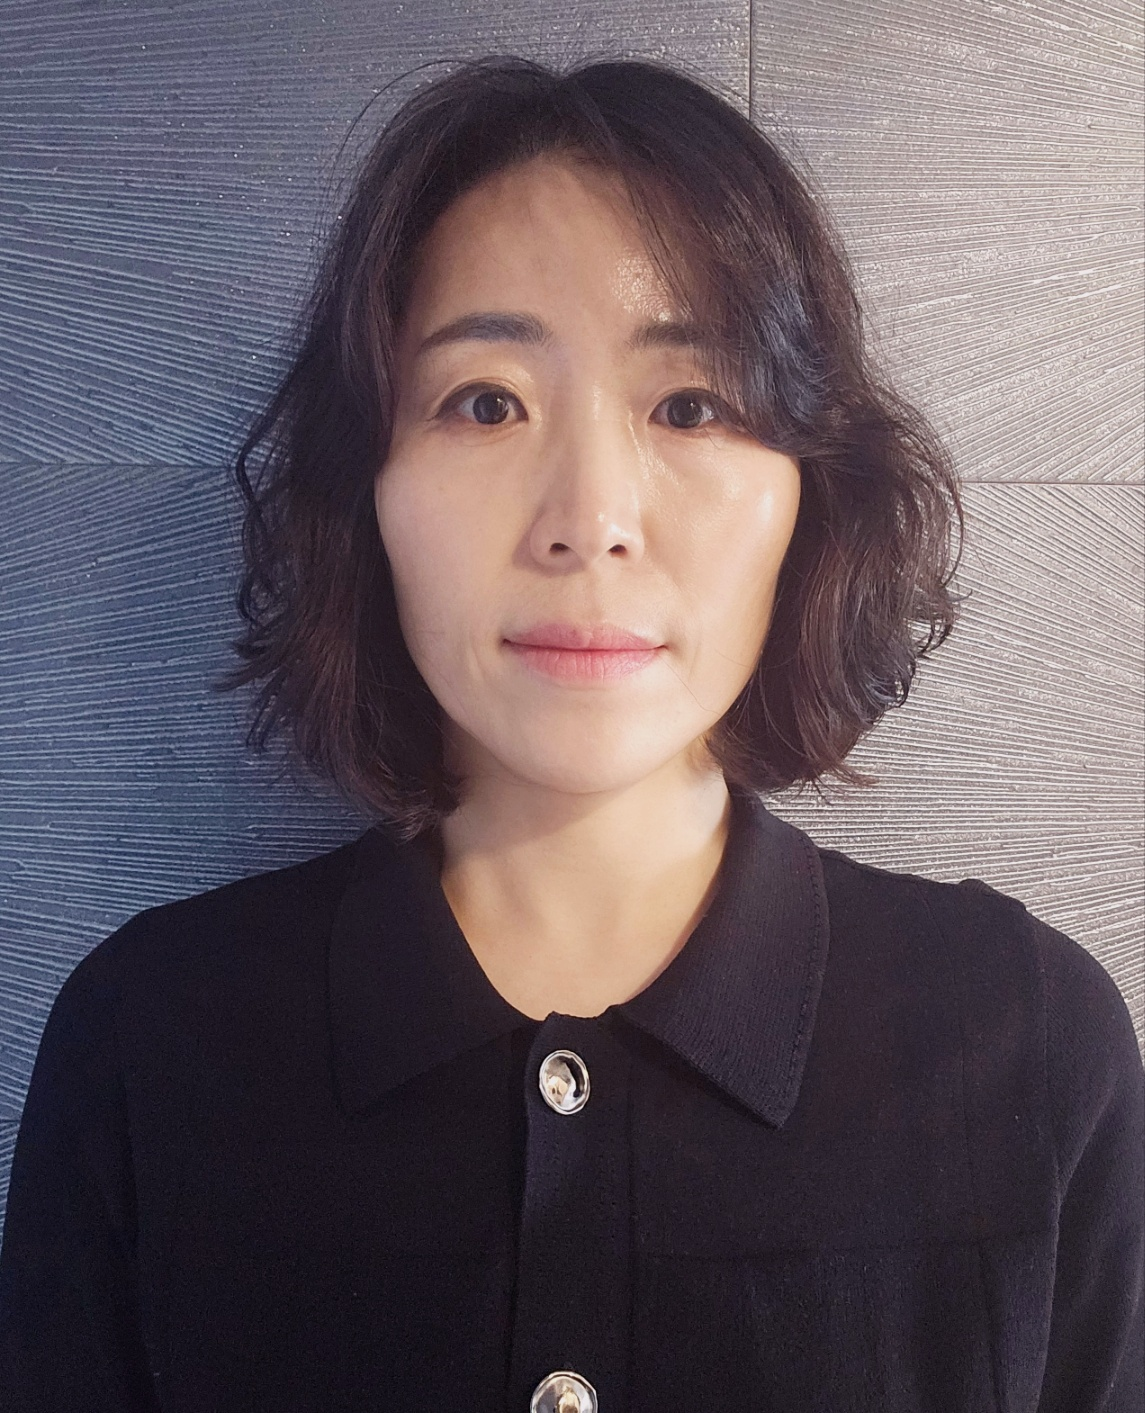
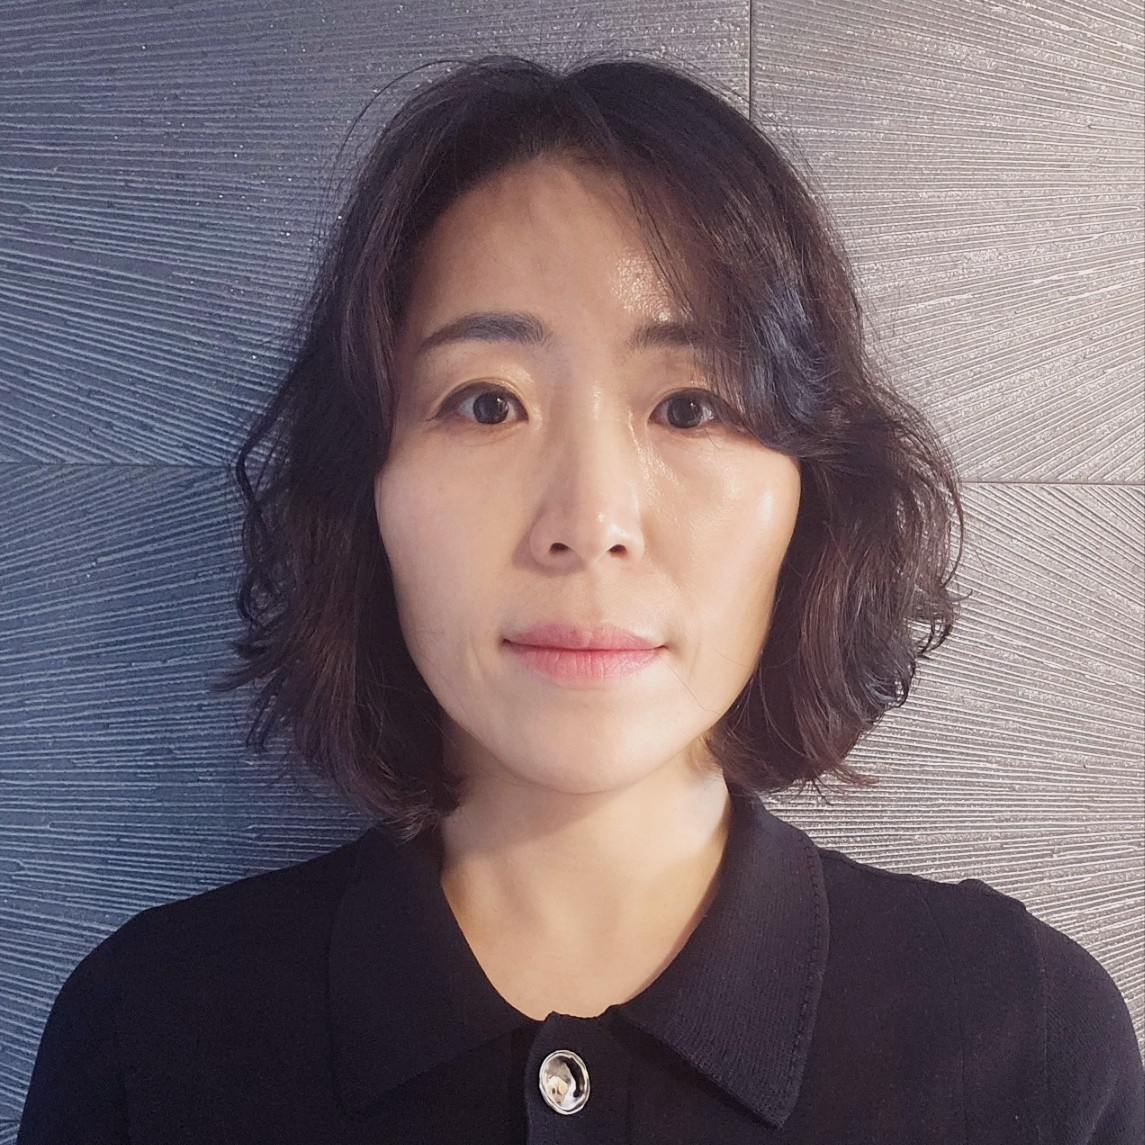
팀·펠로우 명단 재배치: 정두루만 팀, 나머지 전원 펠로우
- Team 8명 → 정두루 1명
- Fellows 4명 → 11명 (사진 있는 7명 + 기존 4명)
- 펠로우 직함을 연구원/Researcher 단일로 통일 (비상임·기여 구분 제거)
- 박수훈·김연경 프로필 사진 추가
- 세로형 사진 3장(김연경·박보영·김유정) 하단 크롭해 정사각 카드에서 얼굴 잘리던 것 수정

diff --git a/fellows.html b/fellows.html
@@ -79,27 +79,69 @@
       </div>
       <div class="people__grid">
         <div class="person">
-          <div class="person__photo person__photo--empty"></div>
+          <div class="person__photo"><img src="images/people/kim-yujeong.jpeg" alt="Kim Yujeong" /></div>
+          <h3 class="person__name">Kim Yujeong</h3>
+          <p class="person__role">Researcher</p>
+          <a class="person__profile" href="#">Profile</a>
+        </div>
+        <div class="person">
+          <div class="person__photo"><img src="images/people/park-siwoo.png" alt="Park Siwoo" /></div>
+          <h3 class="person__name">Park Siwoo</h3>
+          <p class="person__role">Researcher</p>
+          <a class="person__profile" href="#">Profile</a>
+        </div>
+        <div class="person">
+          <div class="person__photo"><img src="images/people/son-hyemin.jpeg" alt="Son Hyemin" /></div>
+          <h3 class="person__name">Son Hyemin</h3>
+          <p class="person__role">Researcher</p>
+          <a class="person__profile" href="#">Profile</a>
+        </div>
+        <div class="person">
+          <div class="person__photo"><img src="images/people/han-sangjun.png" alt="Han Sangjun" /></div>
+          <h3 class="person__name">Han Sangjun</h3>
+          <p class="person__role">Researcher</p>
+          <a class="person__profile" href="#">Profile</a>
+        </div>
+        <div class="person">
+          <div class="person__photo"><img src="images/people/park-boyoung.jpeg" alt="Park Boyoung" /></div>
+          <h3 class="person__name">Park Boyoung</h3>
+          <p class="person__role">Researcher</p>
+          <a class="person__profile" href="#">Profile</a>
+        </div>
+        <div class="person">
+          <div class="person__photo"><img src="images/people/jin-seungju.jpeg" alt="Jin Seungju" /></div>
+          <h3 class="person__name">Jin Seungju</h3>
+          <p class="person__role">Researcher</p>
+          <a class="person__profile" href="#">Profile</a>
+        </div>
+        <div class="person">
+          <div class="person__photo"><img src="images/people/seok-minguk.png" alt="Seok Minguk" /></div>
+          <h3 class="person__name">Seok Minguk</h3>
+          <p class="person__role">Researcher</p>
+          <a class="person__profile" href="#">Profile</a>
+        </div>
+        <div class="person">
+          <div class="person__photo"><img src="images/people/park-suhoon.jpeg" alt="Suhoon Park" /></div>
           <h3 class="person__name">Suhoon Park</h3>
-          <p class="person__role">Non-Resident Fellow</p>
+          <p class="person__role">Researcher</p>
           <a class="person__profile" href="#">Profile</a>
         </div>
         <div class="person">
           <div class="person__photo person__photo--empty"></div>
           <h3 class="person__name">Sunghoon Jin</h3>
-          <p class="person__role">Non-Resident Fellow</p>
+          <p class="person__role">Researcher</p>
           <a class="person__profile" href="#">Profile</a>
         </div>
         <div class="person">
-          <div class="person__photo person__photo--empty"></div>
+          <div class="person__photo"><img src="images/people/kim-yonkyung.jpeg" alt="Yonkyung Kim" /></div>
           <h3 class="person__name">Yonkyung Kim</h3>
-          <p class="person__role">Contributing Fellow</p>
+          <p class="person__role">Researcher</p>
           <a class="person__profile" href="#">Profile</a>
         </div>
         <div class="person">
           <div class="person__photo person__photo--empty"></div>
           <h3 class="person__name">Jeehwan Lee</h3>
-          <p class="person__role">Contributing Fellow</p>
+          <p class="person__role">Researcher</p>
           <a class="person__profile" href="#">Profile</a>
         </div>
       </div>

diff --git a/fellows.ko.html b/fellows.ko.html
@@ -77,27 +77,69 @@
       </div>
       <div class="people__grid">
         <div class="person">
-          <div class="person__photo person__photo--empty"></div>
+          <div class="person__photo"><img src="images/people/kim-yujeong.jpeg" alt="김유정" /></div>
+          <h3 class="person__name">김유정</h3>
+          <p class="person__role">연구원</p>
+          <a class="person__profile" href="#">프로필</a>
+        </div>
+        <div class="person">
+          <div class="person__photo"><img src="images/people/park-siwoo.png" alt="박시우" /></div>
+          <h3 class="person__name">박시우</h3>
+          <p class="person__role">연구원</p>
+          <a class="person__profile" href="#">프로필</a>
+        </div>
+        <div class="person">
+          <div class="person__photo"><img src="images/people/son-hyemin.jpeg" alt="손혜민" /></div>
+          <h3 class="person__name">손혜민</h3>
+          <p class="person__role">연구원</p>
+          <a class="person__profile" href="#">프로필</a>
+        </div>
+        <div class="person">
+          <div class="person__photo"><img src="images/people/han-sangjun.png" alt="한상준" /></div>
+          <h3 class="person__name">한상준</h3>
+          <p class="person__role">연구원</p>
+          <a class="person__profile" href="#">프로필</a>
+        </div>
+        <div class="person">
+          <div class="person__photo"><img src="images/people/park-boyoung.jpeg" alt="박보영" /></div>
+          <h3 class="person__name">박보영</h3>
+          <p class="person__role">연구원</p>
+          <a class="person__profile" href="#">프로필</a>
+        </div>
+        <div class="person">
+          <div class="person__photo"><img src="images/people/jin-seungju.jpeg" alt="진승주" /></div>
+          <h3 class="person__name">진승주</h3>
+          <p class="person__role">연구원</p>
+          <a class="person__profile" href="#">프로필</a>
+        </div>
+        <div class="person">
+          <div class="person__photo"><img src="images/people/seok-minguk.png" alt="석민국" /></div>
+          <h3 class="person__name">석민국</h3>
+          <p class="person__role">연구원</p>
+          <a class="person__profile" href="#">프로필</a>
+        </div>
+        <div class="person">
+          <div class="person__photo"><img src="images/people/park-suhoon.jpeg" alt="Suhoon Park" /></div>
           <h3 class="person__name">Suhoon Park</h3>
-          <p class="person__role">비상임 펠로우</p>
+          <p class="person__role">연구원</p>
           <a class="person__profile" href="#">프로필</a>
         </div>
         <div class="person">
           <div class="person__photo person__photo--empty"></div>
           <h3 class="person__name">Sunghoon Jin</h3>
-          <p class="person__role">비상임 펠로우</p>
+          <p class="person__role">연구원</p>
           <a class="person__profile" href="#">프로필</a>
         </div>
         <div class="person">
-          <div class="person__photo person__photo--empty"></div>
+          <div class="person__photo"><img src="images/people/kim-yonkyung.jpeg" alt="Yonkyung Kim" /></div>
           <h3 class="person__name">Yonkyung Kim</h3>
-          <p class="person__role">기여 펠로우</p>
+          <p class="person__role">연구원</p>
           <a class="person__profile" href="#">프로필</a>
         </div>
         <div class="person">
           <div class="person__photo person__photo--empty"></div>
           <h3 class="person__name">Jeehwan Lee</h3>
-          <p class="person__role">기여 펠로우</p>
+          <p class="person__role">연구원</p>
           <a class="person__profile" href="#">프로필</a>
         </div>
       </div>

diff --git a/team.html b/team.html
@@ -79,50 +79,8 @@
       </div>
       <div class="people__grid">
         <div class="person">
-          <div class="person__photo"><img src="images/people/kim-yujeong.jpeg" alt="Kim Yujeong" /></div>
-          <h3 class="person__name">Kim Yujeong</h3>
-          <p class="person__role">Researcher</p>
-          <a class="person__profile" href="#">Profile</a>
-        </div>
-        <div class="person">
-          <div class="person__photo"><img src="images/people/park-siwoo.png" alt="Park Siwoo" /></div>
-          <h3 class="person__name">Park Siwoo</h3>
-          <p class="person__role">Researcher</p>
-          <a class="person__profile" href="#">Profile</a>
-        </div>
-        <div class="person">
-          <div class="person__photo"><img src="images/people/son-hyemin.jpeg" alt="Son Hyemin" /></div>
-          <h3 class="person__name">Son Hyemin</h3>
-          <p class="person__role">Researcher</p>
-          <a class="person__profile" href="#">Profile</a>
-        </div>
-        <div class="person">
           <div class="person__photo"><img src="images/people/jeong-duru.jpeg" alt="Jeong Duru" /></div>
           <h3 class="person__name">Jeong Duru</h3>
-          <p class="person__role">Researcher</p>
-          <a class="person__profile" href="#">Profile</a>
-        </div>
-        <div class="person">
-          <div class="person__photo"><img src="images/people/han-sangjun.png" alt="Han Sangjun" /></div>
-          <h3 class="person__name">Han Sangjun</h3>
-          <p class="person__role">Researcher</p>
-          <a class="person__profile" href="#">Profile</a>
-        </div>
-        <div class="person">
-          <div class="person__photo"><img src="images/people/park-boyoung.jpeg" alt="Park Boyoung" /></div>
-          <h3 class="person__name">Park Boyoung</h3>
-          <p class="person__role">Researcher</p>
-          <a class="person__profile" href="#">Profile</a>
-        </div>
-        <div class="person">
-          <div class="person__photo"><img src="images/people/jin-seungju.jpeg" alt="Jin Seungju" /></div>
-          <h3 class="person__name">Jin Seungju</h3>
-          <p class="person__role">Researcher</p>
-          <a class="person__profile" href="#">Profile</a>
-        </div>
-        <div class="person">
-          <div class="person__photo"><img src="images/people/seok-minguk.png" alt="Seok Minguk" /></div>
-          <h3 class="person__name">Seok Minguk</h3>
           <p class="person__role">Researcher</p>
           <a class="person__profile" href="#">Profile</a>
         </div>

diff --git a/team.ko.html b/team.ko.html
@@ -77,50 +77,8 @@
       </div>
       <div class="people__grid">
         <div class="person">
-          <div class="person__photo"><img src="images/people/kim-yujeong.jpeg" alt="김유정" /></div>
-          <h3 class="person__name">김유정</h3>
-          <p class="person__role">연구원</p>
-          <a class="person__profile" href="#">프로필</a>
-        </div>
-        <div class="person">
-          <div class="person__photo"><img src="images/people/park-siwoo.png" alt="박시우" /></div>
-          <h3 class="person__name">박시우</h3>
-          <p class="person__role">연구원</p>
-          <a class="person__profile" href="#">프로필</a>
-        </div>
-        <div class="person">
-          <div class="person__photo"><img src="images/people/son-hyemin.jpeg" alt="손혜민" /></div>
-          <h3 class="person__name">손혜민</h3>
-          <p class="person__role">연구원</p>
-          <a class="person__profile" href="#">프로필</a>
-        </div>
-        <div class="person">
           <div class="person__photo"><img src="images/people/jeong-duru.jpeg" alt="정두루" /></div>
           <h3 class="person__name">정두루</h3>
-          <p class="person__role">연구원</p>
-          <a class="person__profile" href="#">프로필</a>
-        </div>
-        <div class="person">
-          <div class="person__photo"><img src="images/people/han-sangjun.png" alt="한상준" /></div>
-          <h3 class="person__name">한상준</h3>
-          <p class="person__role">연구원</p>
-          <a class="person__profile" href="#">프로필</a>
-        </div>
-        <div class="person">
-          <div class="person__photo"><img src="images/people/park-boyoung.jpeg" alt="박보영" /></div>
-          <h3 class="person__name">박보영</h3>
-          <p class="person__role">연구원</p>
-          <a class="person__profile" href="#">프로필</a>
-        </div>
-        <div class="person">
-          <div class="person__photo"><img src="images/people/jin-seungju.jpeg" alt="진승주" /></div>
-          <h3 class="person__name">진승주</h3>
-          <p class="person__role">연구원</p>
-          <a class="person__profile" href="#">프로필</a>
-        </div>
-        <div class="person">
-          <div class="person__photo"><img src="images/people/seok-minguk.png" alt="석민국" /></div>
-          <h3 class="person__name">석민국</h3>
           <p class="person__role">연구원</p>
           <a class="person__profile" href="#">프로필</a>
         </div>
